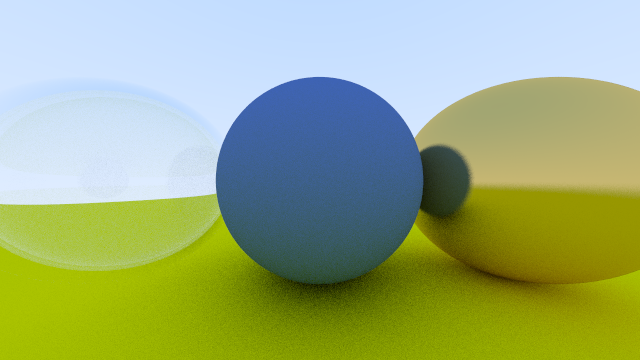
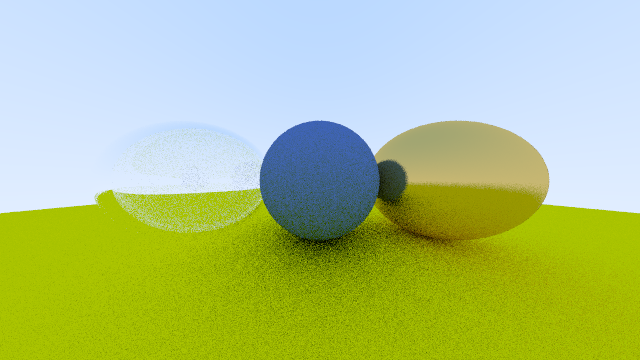
Ray Tracing in a Weekend; chapter10:可以移动的相机 - FOV

diff --git a/src/types.rs b/src/types.rs
@@ -3,6 +3,7 @@ use crate::vector::Vec3;
 use crate::material::Material;
 use crate::ray::{Hittable, Ray, HitRecord};
 use std::sync::Arc;
+use std::f64::consts::PI;
 
 pub type Float = f64;
 
@@ -134,15 +135,20 @@ pub struct Camera {
 }
 
 impl Camera {
-	pub fn new(height:Float,focal_length:Float)->Self{
-		let viewport = (height*(16.0/9.0),height);
+	pub fn new(fov:Float,aspect:Float,focal_length:Float)->Self{
+		let theta = fov*PI/180.0;//角度换弧度
+		let half_height = (theta/2.0).tan();
+		let half_width = half_height * aspect;
+
+		let width = half_width*2.0;
+		let height = half_height*2.0;
+		let viewport = (width,height);
 
 		let horizontal = vec3!(viewport.0,0.0,0.0);
 		let vertical = vec3!(0.0,viewport.1,0.0);
 		let origin = vec3!(0);
-		let lower_left_corner = origin - horizontal/vec3!(2) - vertical/vec3!(2) - vec3!(0,0,focal_length);
+		let lower_left_corner = vec3!(-half_width,-half_height,-focal_length);
 
-		println!("left corner {}",lower_left_corner);
 		Camera{origin,lower_left_corner,horizontal,vertical,viewport}
 	}
 

diff --git a/src/main.rs b/src/main.rs
@@ -18,7 +18,7 @@ pub const ASPECT_RATIO:Float = 16.0/9.0;
 pub const IMAGE_WIDTH:i32 = 640;
 pub const IMAGE_HEIGHT:i32 = (IMAGE_WIDTH as Float / ASPECT_RATIO) as i32;
 pub const BUFFER_SIZE:usize = (IMAGE_WIDTH * IMAGE_HEIGHT * 3) as usize;
-pub const NS:i32 = 100;
+pub const NS:i32 = 10;
 
 fn main() {
 	let mut scene = HittableList::new();
@@ -37,9 +37,11 @@ fn main() {
 
 	let scene = scene;
 
-	let camera = Camera::new(2.0,1.0);
+	let camera = Camera::new(120.0,ASPECT_RATIO,1.0);
 
 	let mut frame = Frame::new(IMAGE_WIDTH, IMAGE_HEIGHT);
+
+	println!("Begin ..");
 	&frame.buffer.par_iter_mut().for_each(|pixel:&mut Pixel|{
 		let x = pixel.x;
 		let y = pixel.y;
